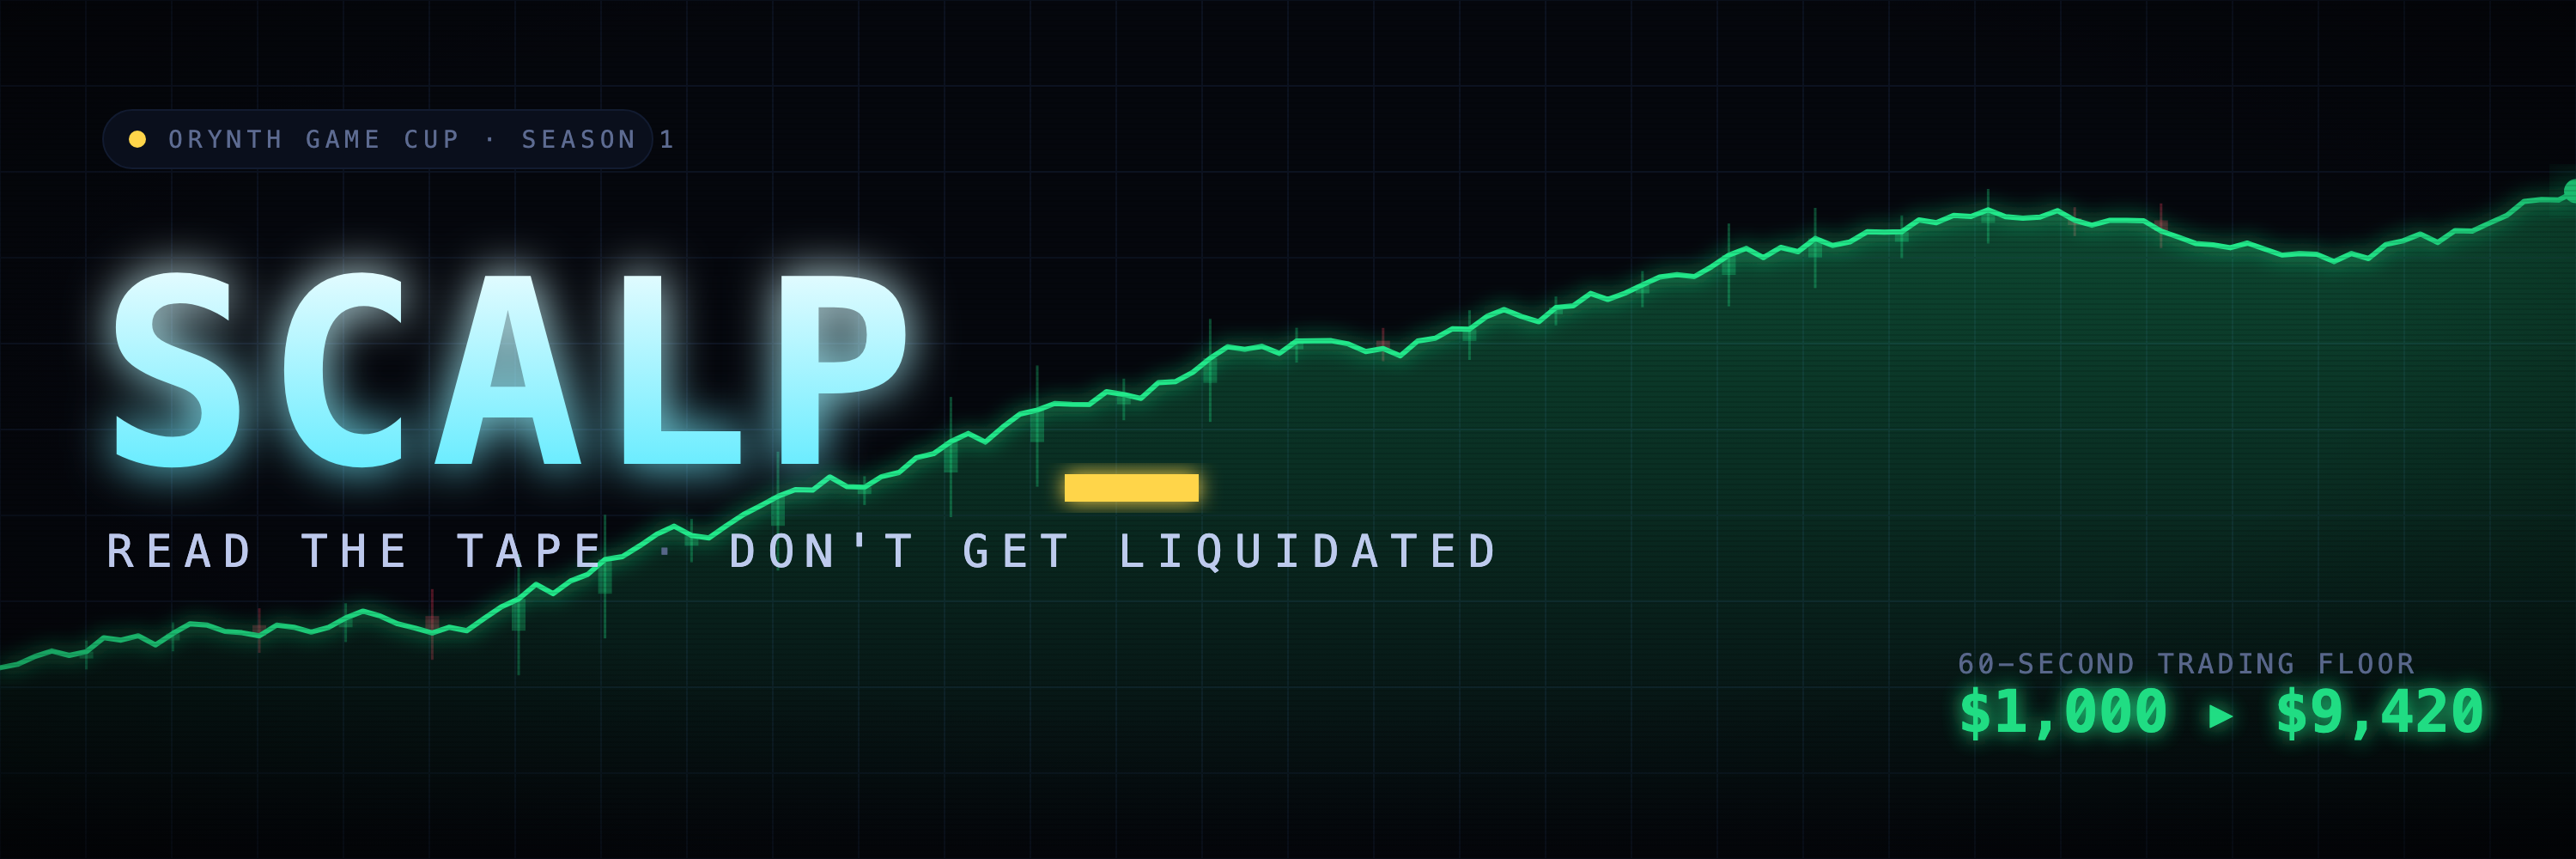
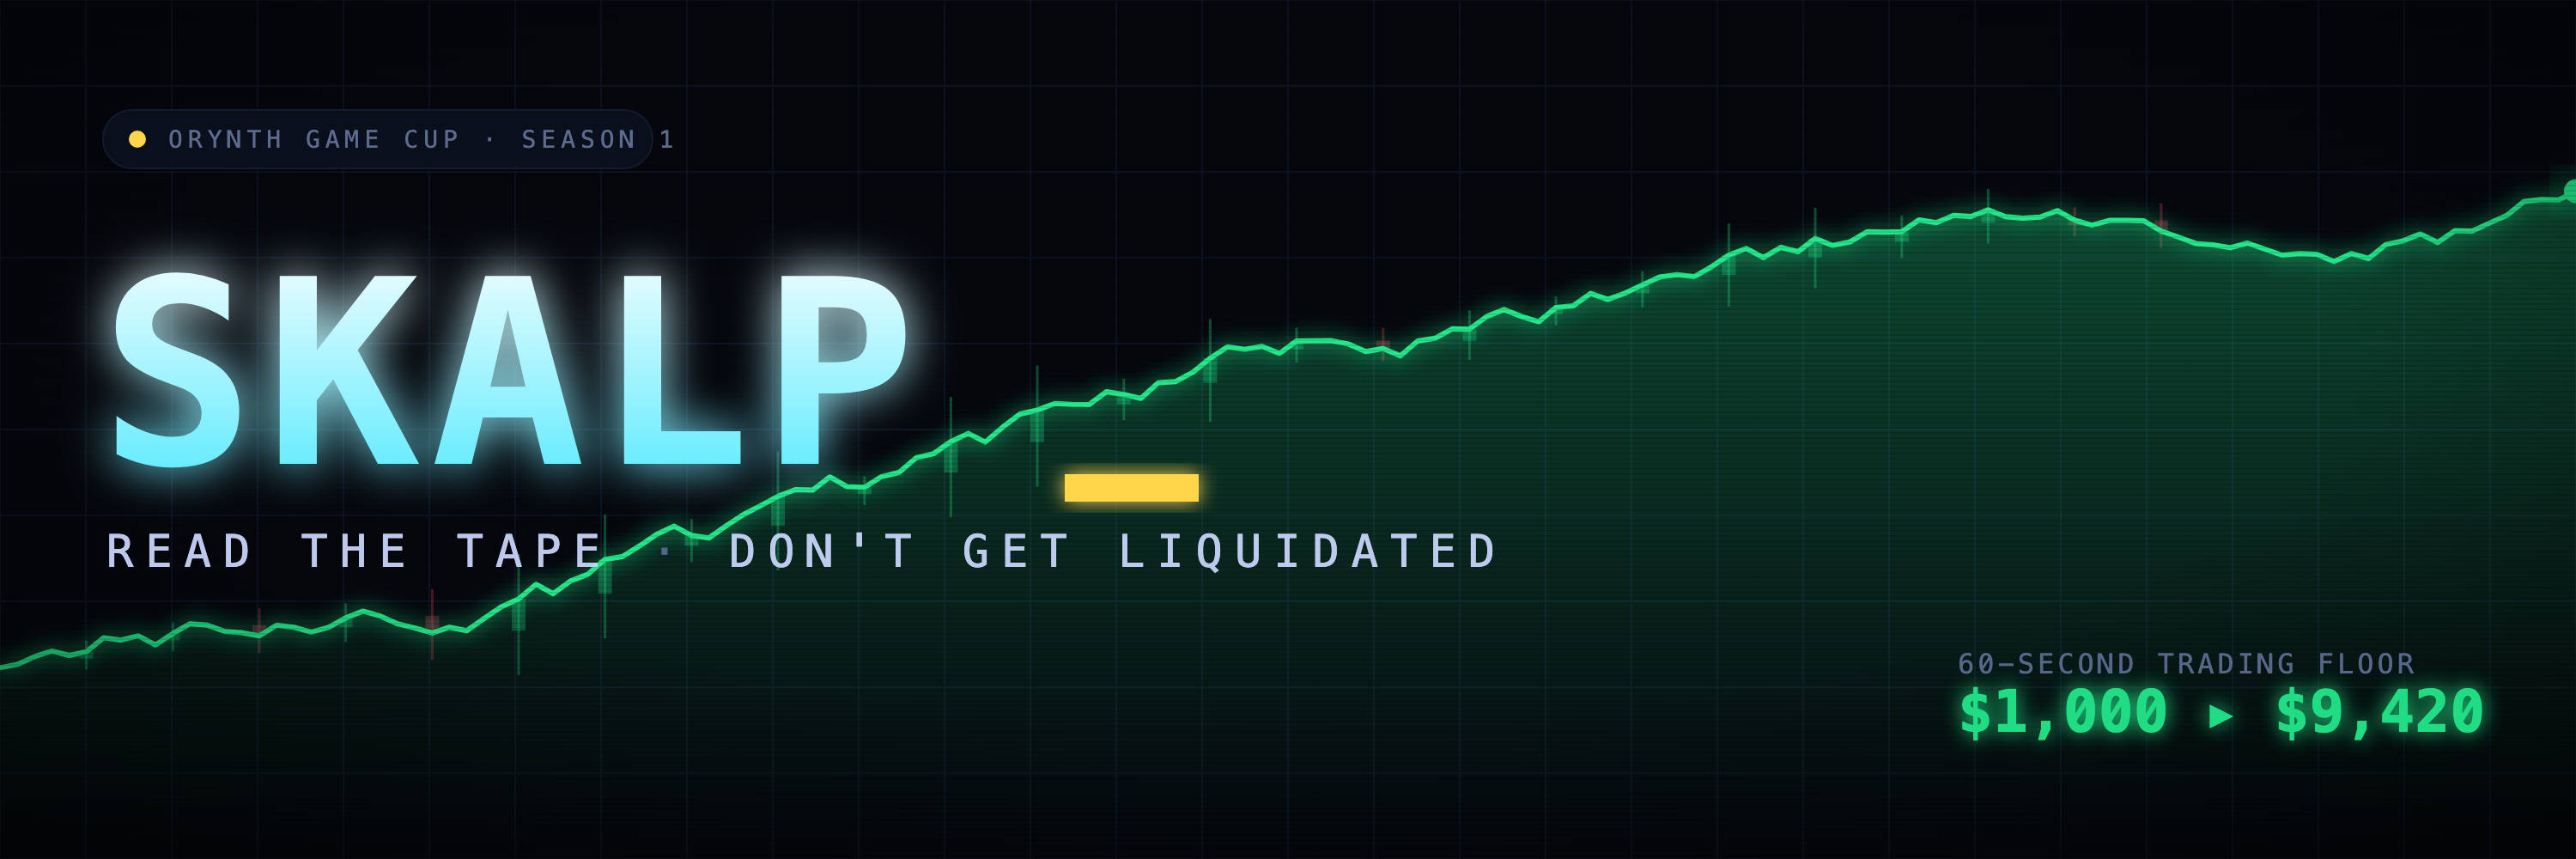
Rebrand SCALP -> SKALP (name + URL slug + assets)

Changed region(s): [[0.093, 0.279, 0.186, 0.589]]

diff --git a/index.html b/index.html
@@ -4,7 +4,7 @@
 <meta charset="UTF-8" />
 <meta name="viewport" content="width=device-width, initial-scale=1.0, maximum-scale=1.0, user-scalable=no" />
 <meta name="theme-color" content="#05070d" />
-<title>SCALP — 60-Second Trading Floor</title>
+<title>SKALP — 60-Second Trading Floor</title>
 <meta name="description" content="Read the tape. Long, short, slam-close. Survive 60 seconds on the trading floor without getting liquidated." />
 <style>
   :root{
@@ -82,7 +82,7 @@
 <div id="wrap"><canvas id="game"></canvas></div>
 <div id="scan"></div>
 <button id="mute" title="Mute (M)">♪</button>
-<div class="credit">SCALP · ORYNTH GAME CUP S1</div>
+<div class="credit">SKALP · ORYNTH GAME CUP S1</div>
 
 <!-- pause overlay (tab lost focus mid-round) -->
 <div id="pausebox" class="pausebox hidden">
@@ -95,7 +95,7 @@
 <!-- TITLE -->
 <div class="overlay" id="screen-title">
   <div class="tag">Orynth Game Cup · Season 1</div>
-  <h1>SCALP<span class="cur">_</span></h1>
+  <h1>SKALP<span class="cur">_</span></h1>
   <div class="tag">read the tape · don't get liquidated</div>
   <div class="how">
     The tape scrolls. Go <b class="g">LONG</b> when it climbs, <b class="r">SHORT</b> when it dives.
@@ -477,7 +477,7 @@ function gameOver(){
 }
 
 /* ---------- leaderboard (local, per daily seed) ---------- */
-function lbKey(){return 'scalp_lb_'+SEED;}
+function lbKey(){return 'skalp_lb_'+SEED;}
 function getScores(){ try{return JSON.parse(localStorage.getItem(lbKey())||'[]');}catch(e){return[];} }
 function saveScore(s){
   const arr=getScores(); arr.push({s,t:Date.now()}); arr.sort((a,b)=>b.s-a.s);
@@ -532,7 +532,7 @@ document.getElementById('btn-again').addEventListener('click',()=>startGame());
 
 /* ---------- shareable score card ---------- */
 let cardData=null;
-const PLAY_URL='https://amudotcom-byte.github.io/scalp/';
+const PLAY_URL='https://amudotcom-byte.github.io/skalp/';
 function buildScoreCard(){
   const d=cardData||{book:0,peak:0,combo:0,best:0,liquidated:false,seed:SEED,hist:[100,100],rank:0,total:0,win:false};
   const CW=1080, CH=1350, c=document.createElement('canvas'); c.width=CW; c.height=CH;
@@ -548,7 +548,7 @@ function buildScoreCard(){
   x.textAlign='left'; x.fillStyle=COL.muted; x.font='600 25px Courier New';
   x.fillText('● ORYNTH GAME CUP · SEASON 1',70,96);
   x.textAlign='right'; x.fillStyle='#fff'; x.font='900 64px Courier New'; x.shadowColor=COL.cyan; x.shadowBlur=24;
-  x.fillText('SCALP',CW-90,102); x.shadowBlur=0; x.fillStyle=COL.amber; x.fillRect(CW-84,114,40,10);
+  x.fillText('SKALP',CW-90,102); x.shadowBlur=0; x.fillStyle=COL.amber; x.fillRect(CW-84,114,40,10);
   // hero chart from the final tape
   const hist=(d.hist&&d.hist.length>2)?d.hist:[100,100];
   const cx0=70,cx1=CW-70,cy0=210,cy1=640;
@@ -579,11 +579,11 @@ function buildScoreCard(){
   x.strokeStyle=COL.grid; x.beginPath(); x.moveTo(70,1242); x.lineTo(CW-70,1242); x.stroke();
   x.fillStyle=COL.muted; x.font='600 25px Courier New'; x.fillText('DAILY MARKET #'+d.seed,CW/2,1286);
   x.fillStyle=COL.green; x.font='800 31px Courier New'; x.shadowColor=COL.green; x.shadowBlur=10;
-  x.fillText('▶ PLAY FREE · amudotcom-byte.github.io/scalp',CW/2,1330); x.shadowBlur=0;
+  x.fillText('▶ PLAY FREE · amudotcom-byte.github.io/skalp',CW/2,1330); x.shadowBlur=0;
   return c;
 }
 function cardBlob(){ return new Promise(res=>buildScoreCard().toBlob(b=>res(b),'image/png')); }
-function shareText(){ const d=cardData||{book:0,seed:SEED}; return `I booked ${fmt(d.book)} in 60 seconds on SCALP 📈 (daily market #${d.seed}). Think you can read the tape better?`; }
+function shareText(){ const d=cardData||{book:0,seed:SEED}; return `I booked ${fmt(d.book)} in 60 seconds on SKALP 📈 (daily market #${d.seed}). Think you can read the tape better?`; }
 function downloadBlob(blob,name){ const u=URL.createObjectURL(blob); const a=document.createElement('a'); a.href=u; a.download=name; document.body.appendChild(a); a.click(); a.remove(); setTimeout(()=>URL.revokeObjectURL(u),4000); }
 function flash(btn,msg,ms){ const o=btn.dataset.label||btn.textContent; btn.dataset.label=o; btn.textContent=msg; setTimeout(()=>btn.textContent=o,ms||1700); }
 
@@ -591,15 +591,15 @@ async function smartShare(){
   const b=document.getElementById('btn-share');
   try{
     const blob=await cardBlob();
-    const file=new File([blob],'scalp-score.png',{type:'image/png'});
+    const file=new File([blob],'skalp-score.png',{type:'image/png'});
     if(navigator.canShare && navigator.canShare({files:[file]})){
       await navigator.share({files:[file], text:shareText()+'\n'+PLAY_URL});
       flash(b,'Shared ✓');
-    } else { downloadBlob(blob,'scalp-score.png'); flash(b,'Saved ✓ — attach to your post',2400); }
-  }catch(e){ if(String(e).indexOf('AbortError')>=0) return; try{downloadBlob(await cardBlob(),'scalp-score.png'); flash(b,'Saved ✓',2000);}catch(_){ flash(b,'Could not share'); } }
+    } else { downloadBlob(blob,'skalp-score.png'); flash(b,'Saved ✓ — attach to your post',2400); }
+  }catch(e){ if(String(e).indexOf('AbortError')>=0) return; try{downloadBlob(await cardBlob(),'skalp-score.png'); flash(b,'Saved ✓',2000);}catch(_){ flash(b,'Could not share'); } }
 }
 document.getElementById('btn-share').addEventListener('click',smartShare);
-document.getElementById('btn-save').addEventListener('click',async e=>{ downloadBlob(await cardBlob(),'scalp-score.png'); flash(e.currentTarget,'Saved ✓'); });
+document.getElementById('btn-save').addEventListener('click',async e=>{ downloadBlob(await cardBlob(),'skalp-score.png'); flash(e.currentTarget,'Saved ✓'); });
 document.getElementById('btn-x').addEventListener('click',()=>{ window.open('https://twitter.com/intent/tweet?text='+encodeURIComponent(shareText())+'&url='+encodeURIComponent(PLAY_URL),'_blank','noopener'); });
 document.getElementById('btn-copy').addEventListener('click',async e=>{ const el=e.currentTarget;
   try{ if(navigator.clipboard&&window.ClipboardItem){ await navigator.clipboard.write([new ClipboardItem({'image/png':await cardBlob()})]); flash(el,'Image copied ✓'); }
@@ -621,7 +621,7 @@ function drawReelFrame(x,W,H,t){
   // header
   x.textAlign='left'; x.fillStyle=COL.muted; x.font='600 20px Courier New'; x.fillText('● ORYNTH GAME CUP · S1',40,64);
   x.textAlign='right'; x.fillStyle='#fff'; x.font='900 48px Courier New'; x.shadowColor=COL.cyan; x.shadowBlur=18;
-  x.fillText('SCALP',W-44,72); x.shadowBlur=0; x.fillStyle=COL.amber; x.fillRect(W-40,82,30,8);
+  x.fillText('SKALP',W-44,72); x.shadowBlur=0; x.fillStyle=COL.amber; x.fillRect(W-40,82,30,8);
   // progressive tape
   const hist=(d.hist&&d.hist.length>2)?d.hist:[100,100];
   const cx0=40,cx1=W-40,cy0=160,cy1=560;
@@ -658,7 +658,7 @@ function drawReelFrame(x,W,H,t){
       x.fillStyle=COL.ink; x.font='900 34px Courier New'; x.fillText(cc[1],colx,sy+40);});
     x.globalAlpha=Math.max(0,Math.min(1,(t-3.8)/0.5));
     x.fillStyle=COL.green; x.font='800 23px Courier New'; x.shadowColor=COL.green; x.shadowBlur=8;
-    x.fillText('▶ PLAY FREE · amudotcom-byte.github.io/scalp',W/2,1196); x.shadowBlur=0;
+    x.fillText('▶ PLAY FREE · amudotcom-byte.github.io/skalp',W/2,1196); x.shadowBlur=0;
     x.globalAlpha=1;
   }
 }
@@ -694,9 +694,9 @@ async function recordAndShare(btn){
   try{
     const {blob,ext}=await buildReel();
     if(!blob.size){ flash(btn,'Record failed'); return; }
-    const file=new File([blob],'scalp-clip.'+ext,{type:blob.type});
+    const file=new File([blob],'skalp-clip.'+ext,{type:blob.type});
     if(navigator.canShare && navigator.canShare({files:[file]})){ await navigator.share({files:[file], text:shareText()+'\n'+PLAY_URL}); flash(btn,'Shared ✓'); }
-    else { downloadBlob(blob,'scalp-clip.'+ext); flash(btn,'Saved clip ✓ ('+ext+')',2400); }
+    else { downloadBlob(blob,'skalp-clip.'+ext); flash(btn,'Saved clip ✓ ('+ext+')',2400); }
   }catch(e){ if(String(e).indexOf('AbortError')>=0){ flash(btn,'🎬 5s clip'); return; } flash(btn,'Record failed'); }
 }
 document.getElementById('btn-clip').addEventListener('click',e=>recordAndShare(e.currentTarget));

diff --git a/brand/generate.js b/brand/generate.js
@@ -1,8 +1,8 @@
-// Generates SCALP brand SVGs (logo + X banner) using the game's own price engine.
+// Generates SKALP brand SVGs (logo + X banner) using the game's own price engine.
 const fs = require('fs');
 const path = require('path');
 
-/* ---- SCALP palette (matches the game) ---- */
+/* ---- SKALP palette (matches the game) ---- */
 const C = {
   bg:'#05070d', panel:'#0a0f1c', grid:'#121b30',
   green:'#21e88a', greenDim:'#0f7a4a',
@@ -109,7 +109,7 @@ ${scan(W,H)}
 </g>
 
 <!-- wordmark -->
-<text x="58" y="270" font-family="Menlo,'Courier New',monospace" font-weight="900" font-size="150" letter-spacing="6" fill="url(#wm)" filter="url(#glowSoft)">SCALP</text>
+<text x="58" y="270" font-family="Menlo,'Courier New',monospace" font-weight="900" font-size="150" letter-spacing="6" fill="url(#wm)" filter="url(#glowSoft)">SKALP</text>
 <rect x="620" y="276" width="78" height="16" fill="${C.amber}" filter="url(#glowG)"/>
 
 <!-- tagline -->
@@ -143,13 +143,13 @@ ${defs()}
   <polygon points="${area}" fill="url(#areaG)"/>
   <polyline points="${poly(pts)}" fill="none" stroke="${C.green}" stroke-width="7" filter="url(#glowG)" stroke-linejoin="round" stroke-linecap="round"/>
   <circle cx="${head[0].toFixed(1)}" cy="${head[1].toFixed(1)}" r="14" fill="${C.green}" filter="url(#glowSoft)"/>
-  <!-- scalp cut: a bright diagonal slash -->
+  <!-- skalp cut: a bright diagonal slash -->
   <line x1="170" y1="690" x2="830" y2="470" stroke="#ffffff" stroke-width="3" opacity="0.18"/>
   ${scan(S,S)}
   <rect width="${S}" height="${S}" fill="url(#vig)"/>
 </g>
 <!-- wordmark -->
-<text x="${S/2}" y="780" text-anchor="middle" font-family="Menlo,'Courier New',monospace" font-weight="900" font-size="170" letter-spacing="8" fill="url(#wm)" filter="url(#glowSoft)">SCALP</text>
+<text x="${S/2}" y="780" text-anchor="middle" font-family="Menlo,'Courier New',monospace" font-weight="900" font-size="170" letter-spacing="8" fill="url(#wm)" filter="url(#glowSoft)">SKALP</text>
 <rect x="772" y="788" width="60" height="16" fill="${C.amber}" filter="url(#glowG)"/>
 <text x="${S/2}" y="846" text-anchor="middle" font-family="Menlo,'Courier New',monospace" font-size="26" letter-spacing="11" fill="${C.muted}">READ · LONG · SHORT · SURVIVE</text>
 </svg>`;

diff --git a/README.md b/README.md
@@ -1,8 +1,8 @@
-# SCALP
+# SKALP
 
 **A 60-second browser trading-floor reflex game.** Read the tape, go long or short, slam-close before it reverses — and don't get liquidated.
 
-▶ **Play:** https://amudotcom-byte.github.io/scalp/
+▶ **Play:** https://amudotcom-byte.github.io/skalp/
 
 Built for the [Orynth Game Cup 2026 — Season 1](https://www.orynth.dev/cup).
 